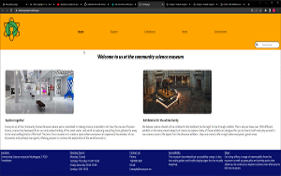
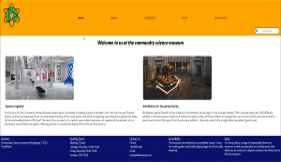
image resizes

diff --git a/projects.html b/projects.html
@@ -65,7 +65,7 @@
           </p>
           <div>
             <h4>Site link:</h4>
-            <a href="https://noroffproject.netlify.app/">Ecommerce site link</a>
+            <a href="https://noroffproject.netlify.app/">Ecommerce site</a>
           </div>
         </div>
         <div>
@@ -88,19 +88,19 @@
           </p>
           <div>
             <h4>Site link:</h4>
-            <a href="https://htmlcssproject.netlify.app/">Blog site</a>
+            <a href="https://htmlcssproject.netlify.app/">Museum site</a>
           </div>
         </div>
         <div>
           <h2>Furniture site design</h2>
           <img src="images/Home decor site.png" alt="image for home decor site" class="images" id="myImgid" />
           <p>
-            This was just a design made for a eCommerce site that sells Furniture to a big target audience. This was a
-            task was purely design related to pratice a design for a specific audience.
+            This was just a design made for a site that sells Furniture to a big target audience. This is purely a
+            design example so the site doesnt have functionality.
           </p>
           <div>
             <h4>Site link:</h4>
-            <a href="https://eager-mclean-92a3ba.netlify.app/">Blog site</a>
+            <a href="https://eager-mclean-92a3ba.netlify.app/">Design site</a>
           </div>
         </div>
         <div id="modalId" class="modal">

diff --git a/css/main.css b/css/main.css
@@ -137,6 +137,16 @@ h3 {
   text-align: center;
 }
 
+.selectedprojects_container a,
+.projects_container a {
+  text-decoration: underline;
+  font-weight: bold;
+}
+
+main a:hover {
+  text-transform: uppercase;
+}
+
 .selectedprojects_container img {
   width: 100%;
 }

diff --git a/scss/partials/_projects.scss b/scss/partials/_projects.scss
@@ -21,6 +21,16 @@
   text-align: center;
 }
 
+.selectedprojects_container a,
+.projects_container a {
+  text-decoration: underline;
+  font-weight: bold;
+}
+
+main a:hover {
+  text-transform: uppercase;
+}
+
 .selectedprojects_container img {
   width: 100%;
 }
